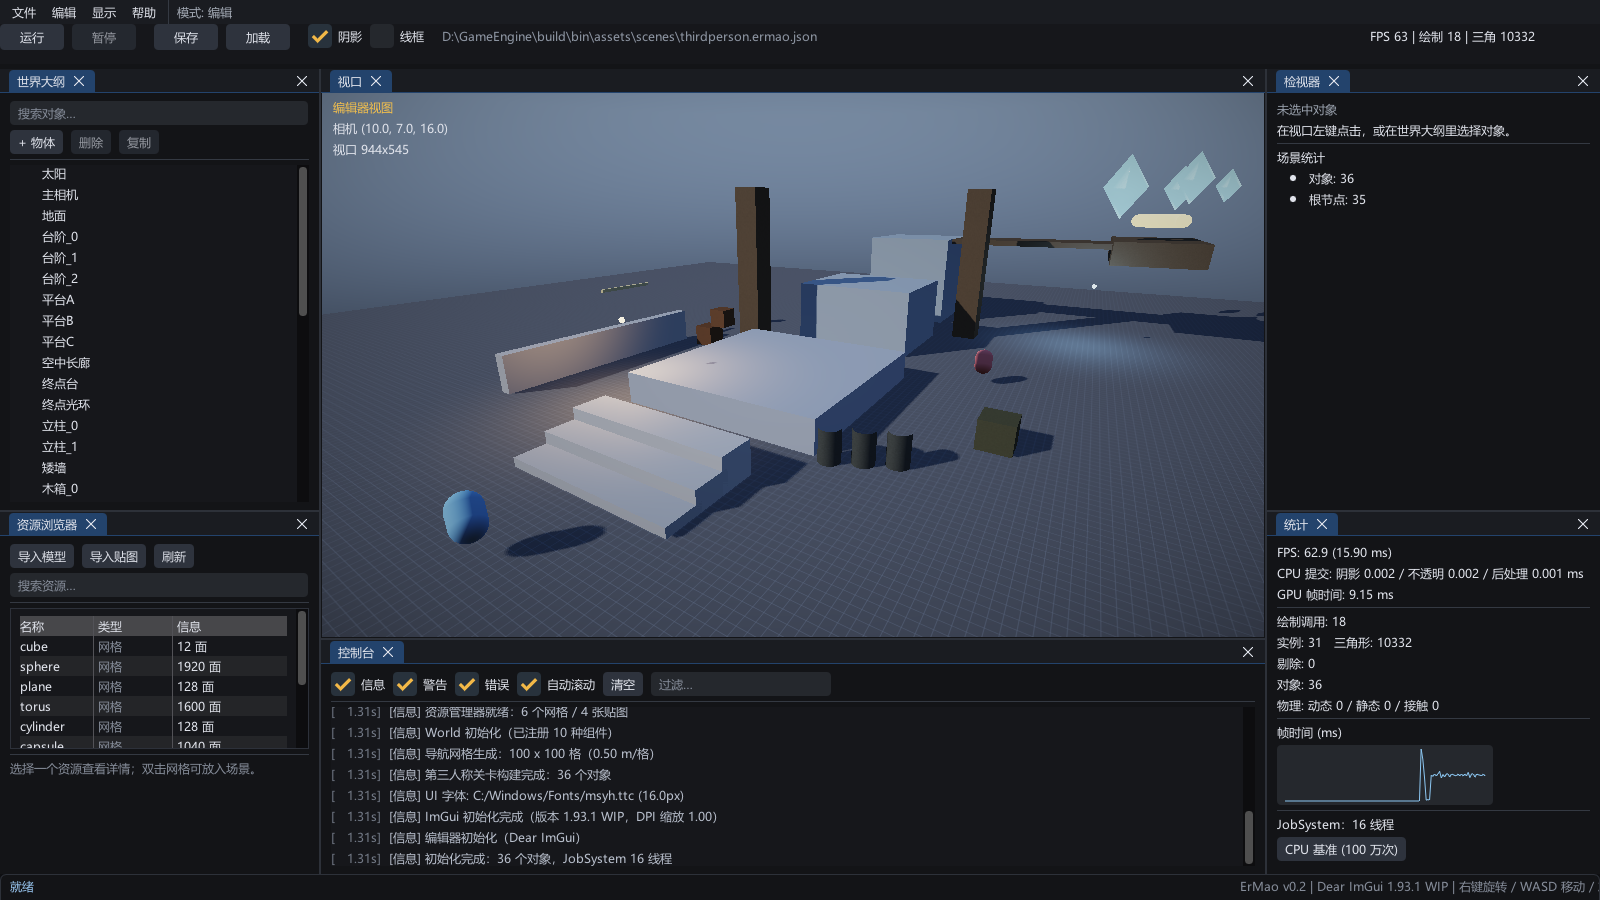
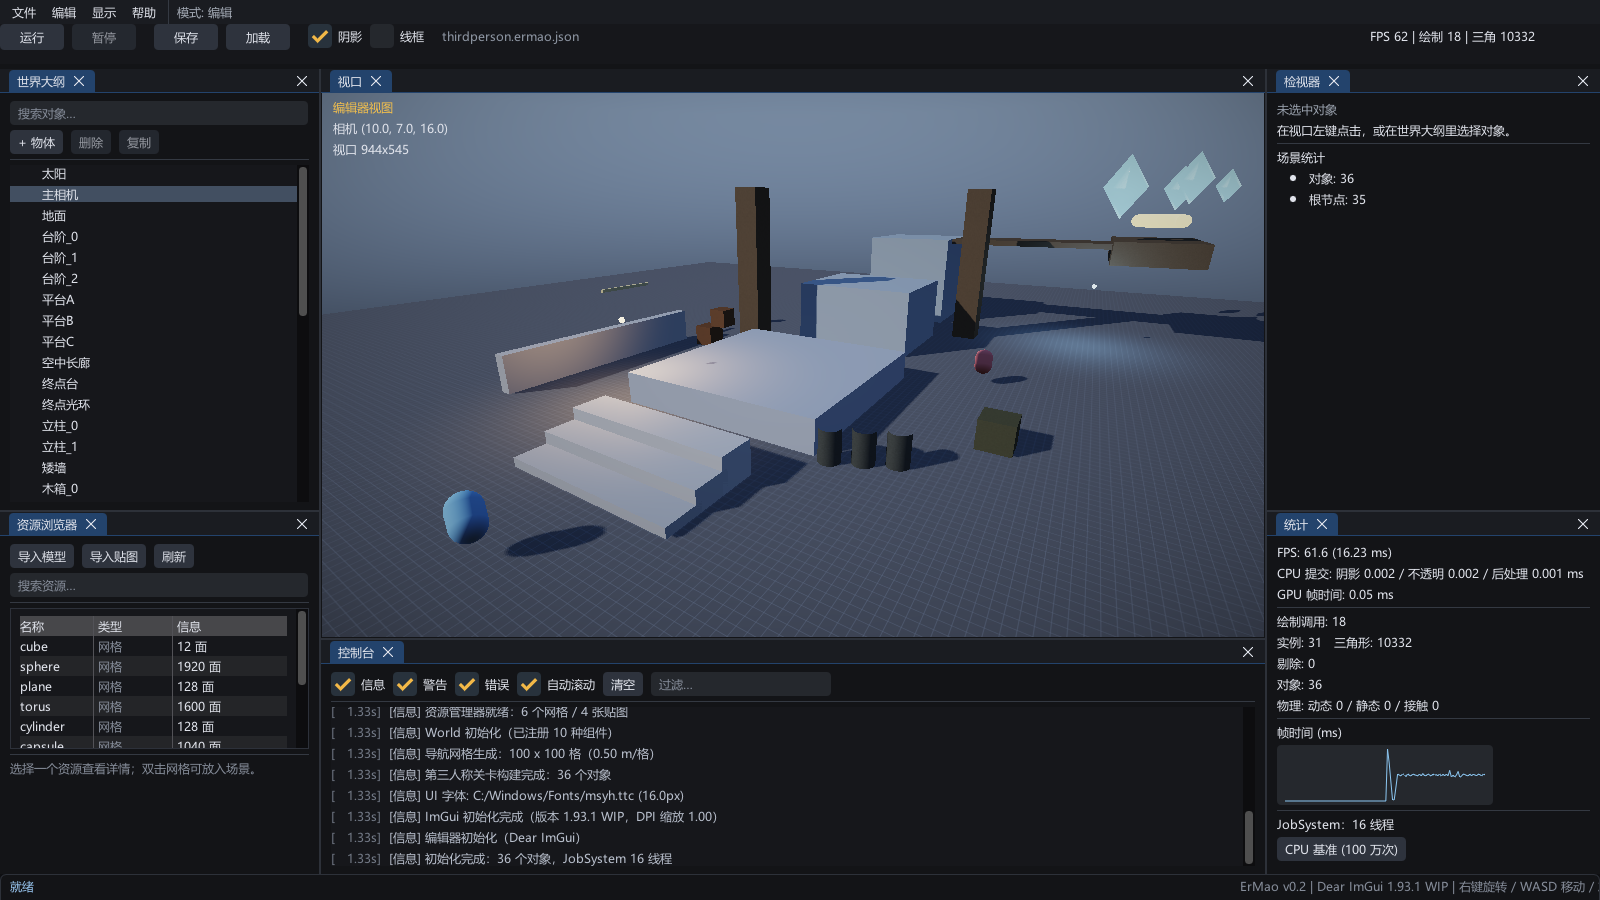
v0.2 final: help/about, toolbar polish, PIE evidence, docs

Changed region(s): [[0.0, 0.1867, 0.1875, 0.2489], [0.2812, 0.0311, 0.5, 0.0622], [0.875, 0.84, 0.9062, 0.8711]]

diff --git a/engine/src/editor/EditorUI.cpp b/engine/src/editor/EditorUI.cpp
@@ -229,11 +229,38 @@ void Editor::DrawMenuBar(World& world, Renderer& renderer, AssetManager& assets,
     }
 
     if (ImGui::BeginMenu("帮助")) {
-        if (ImGui::MenuItem("操作说明")) SetStatus("右键拖动转视角 / WASD 移动 / 左键拾取 / F5 运行 / Ctrl+S 保存");
-        if (ImGui::MenuItem("关于 ErMao")) {
-            SetStatus("ErMao Engine v0.2 - D3D11 + Dear ImGui，GAMES104 教学引擎");
-        }
+        if (ImGui::MenuItem("快捷键与操作")) ImGui::OpenPopup("##help");
+        if (ImGui::MenuItem("关于 ErMao")) ImGui::OpenPopup("##about");
         ImGui::EndMenu();
+    }
+
+    if (ImGui::BeginPopup("##help")) {
+        ImGui::TextColored(ImVec4(0.95f, 0.75f, 0.30f, 1), "视口 / 编辑器");
+        ImGui::BulletText("右键拖动：环视    WASD/QE：移动    Shift：加速");
+        ImGui::BulletText("左键：拾取物体    滚轮：无");
+        ImGui::Separator();
+        ImGui::TextColored(ImVec4(0.95f, 0.75f, 0.30f, 1), "运行模式");
+        ImGui::BulletText("WASD 移动 / Shift 奔跑 / 空格 跳跃 / 右键拖动转视角 / 滚轮缩放");
+        ImGui::Separator();
+        ImGui::TextColored(ImVec4(0.95f, 0.75f, 0.30f, 1), "文件与编辑");
+        ImGui::BulletText("Ctrl+N 新建   Ctrl+O 打开   Ctrl+S 保存");
+        ImGui::BulletText("Ctrl+D 复制   Delete 删除   F5 运行/停止");
+        ImGui::BulletText("F2 线框  F4 阴影  F11 隐藏编辑器  F12 截图");
+        ImGui::Separator();
+        if (ImGui::Button("知道了")) ImGui::CloseCurrentPopup();
+        ImGui::EndPopup();
+    }
+
+    if (ImGui::BeginPopup("##about")) {
+        ImGui::TextColored(ImVec4(0.95f, 0.75f, 0.30f, 1), "ErMao Engine v0.2");
+        ImGui::Text("Windows / C++17 / D3D11 / Dear ImGui %s", IMGUI_VERSION);
+        ImGui::TextWrapped("GAMES104 教学引擎：分层架构、前向 PBR、阴影、代码优先关卡、"
+                           "反射驱动编辑器。");
+        ImGui::Separator();
+        ImGui::TextDisabled("关卡: game/ThirdPersonLevel.cpp   UI: editor/EditorUI.cpp");
+        ImGui::TextDisabled("文档: docs/00 ~ docs/06");
+        if (ImGui::Button("关闭")) ImGui::CloseCurrentPopup();
+        ImGui::EndPopup();
     }
 
     // 右侧状态
@@ -276,7 +303,7 @@ void Editor::DrawToolbar(World& world, Renderer& renderer) {
     ImGui::Checkbox("线框", &renderer.Wireframe());
 
     ImGui::SameLine(0, 18);
-    ImGui::TextColored(ImVec4(0.55f, 0.58f, 0.63f, 1), "%s", m_scenePath.c_str());
+    ImGui::TextColored(ImVec4(0.55f, 0.58f, 0.63f, 1), "%s", FileSystem::FileNameOf(m_scenePath).c_str());
 
     ImGui::SameLine(ImGui::GetWindowWidth() - 230.0f);
     const auto& stats = renderer.GetStats();

diff --git a/docs/02-分章讲解.md b/docs/02-分章讲解.md
@@ -354,3 +354,24 @@ auto worker = [&] {
 6. **随机崩溃** → 父子对象的所有权：子节点被局部 `unique_ptr` 提前释放。
 
 这六条基本覆盖了"从零写一个小引擎"最容易卡住的地方，也是我在这个项目里真实踩过的坑。
+
+---
+
+## 13. v0.2 补充：为什么最终换成了 Dear ImGui
+
+第 9 节描述的是 v0.1 的自研即时模式 UI。实践下来，审核报告的判断是对的：
+**"600 行 UI" 只够画出面板，不够支撑一个引擎级编辑器**——Dock 布局、滚动裁剪、
+文本输入法、拖拽捕获、多窗口焦点，任何一项都会把预算翻倍。
+
+v0.2 的做法是接入 Dear ImGui（docking 分支），把省下的时间投到三件更有价值的事：
+
+1. **离屏视口**：`Renderer::RenderToViewport` 渲染到 `RGBA8` RT，`ImGui::Image` 显示。
+   这是引擎编辑器的标准形态，也让"多视口/预览窗口"变成纯 UI 工作。
+2. **资源链路**：资产注册表 + `ImportMesh/ImportTexture`（复制到 assets、OBJ/WIC 解析、注册、实例化），
+   配合资源浏览器的双击放入场景。
+3. **代码优先的关卡**：`game/ThirdPersonLevel.cpp` 用 30 行工具函数搭出可玩关卡，
+   第三人称控制器独立成组件（移动/跳跃/碰撞/弹簧臂各一段，见 `docs/05`）。
+
+经验教训写进第 12 节"调试故事"之外，再加一条：
+**"能用成熟库的地方不要自己造"**——自研的价值在渲染/场景/物理这些课程核心，
+不在按钮和滚动条。

diff --git a/docs/03-构建与运行.md b/docs/03-构建与运行.md
@@ -36,7 +36,10 @@ build\bin\ErMao.exe
 | `--frames N` | 跑 N 帧后自动退出（自动化验证） |
 | `--screenshot path.png` | 第 N 帧保存截图后退出 |
 | `--debugview 0..5` | 0 正常 / 1 阴影系数 / 2 世界法线 / 3 基础色 / 5 阴影贴图 |
-| `--noshadows` | 关闭阴影 |
+| `--level thirdperson\|demo` | 选择代码关卡 |
+| `--smoke` | 脚本化移动/跳跃自检（日志打印玩家坐标） |
+| `--import <path>` | 导入 OBJ 自检 |
+| `--test-serialize` | 场景 JSON 往返自检（字节级比较） |
 
 例：
 
@@ -62,6 +65,10 @@ build\bin\ErMao.exe --play --noeditor --frames 150 --screenshot docs\screenshots
 1. 子对象所有权（已在 `World::m_objects` 修复）；
 2. 交换链 resize 前没释放 RTV/DSV；
 3. 常量缓冲结构体不是 16 字节对齐。
+
+**Q: 编辑器里拖了物体，重启后又变回去了？**
+关卡是代码优先的（`game/ThirdPersonLevel.cpp`）。编辑器里的改动要点"保存"才会写到
+`assets/scenes/*.ermao.json`，下次启动仍会用代码关卡；需要恢复编辑结果时在"文件 → 打开场景"里加载它。
 
 **Q: 帧率很低**
 `F3` 看是不是阴影/后处理；`F1`（或 Stats 面板）看 draw call 与三角形数。

diff --git a/docs/06-审核修复记录.md b/docs/06-审核修复记录.md
@@ -30,8 +30,15 @@ Input::SetMouseState(pos, delta, wheel);
 同时删掉了"回调写一遍、Pull 再写一遍"的双真相（P2-7）：鼠标位置/增量/滚轮只由
 `SetMouseState` 一次性快照。
 
-**验证**：`--smoke` 不再依赖键盘；UI 交互走 ImGui 自己的输入栈；
-`F11` 隐藏编辑器、`F12` 截图等热键现在能真正触发（见 `Engine::MainLoop`）。
+**验证（真实鼠标点击，不是"我说能点"）**：用 `SetCursorPos + PostMessage(WM_LBUTTONDOWN/UP)` 对运行中的窗口做了两次点击：
+
+1. 点世界大纲里的"地面" → 该行高亮，检视器立即显示 `地面 / ID 3 / Transform / Mesh Renderer` 全字段；
+2. 点工具栏"运行" → 模式变为"运行中"、按钮变"停止"、视口切到"游戏视图"、
+   控制台出现 `Play：已保存场景快照` 与控制器/动画启动日志。
+
+证据：`docs/screenshots/pie-running.png`。这直接证明 P0-1 的输入链路（消息 → ImGui → 编辑器动作）已经通了。
+
+`--smoke` 另外验证了角色位移；`F11/F12` 等引擎热键走 `Input` 边沿，同样已经生效。
 
 ## 二、P1：明显错误
 
